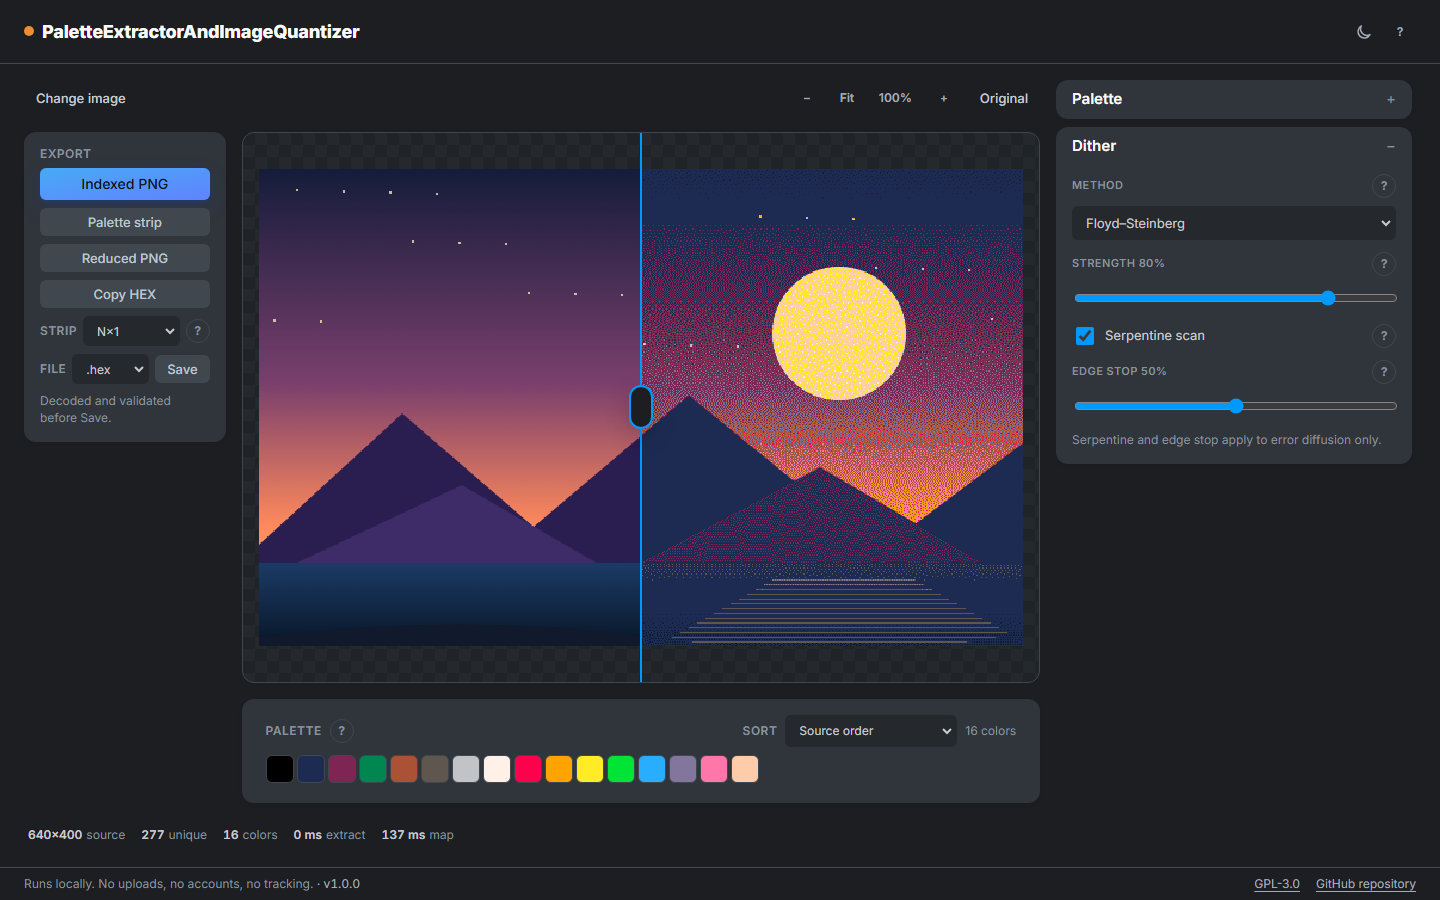
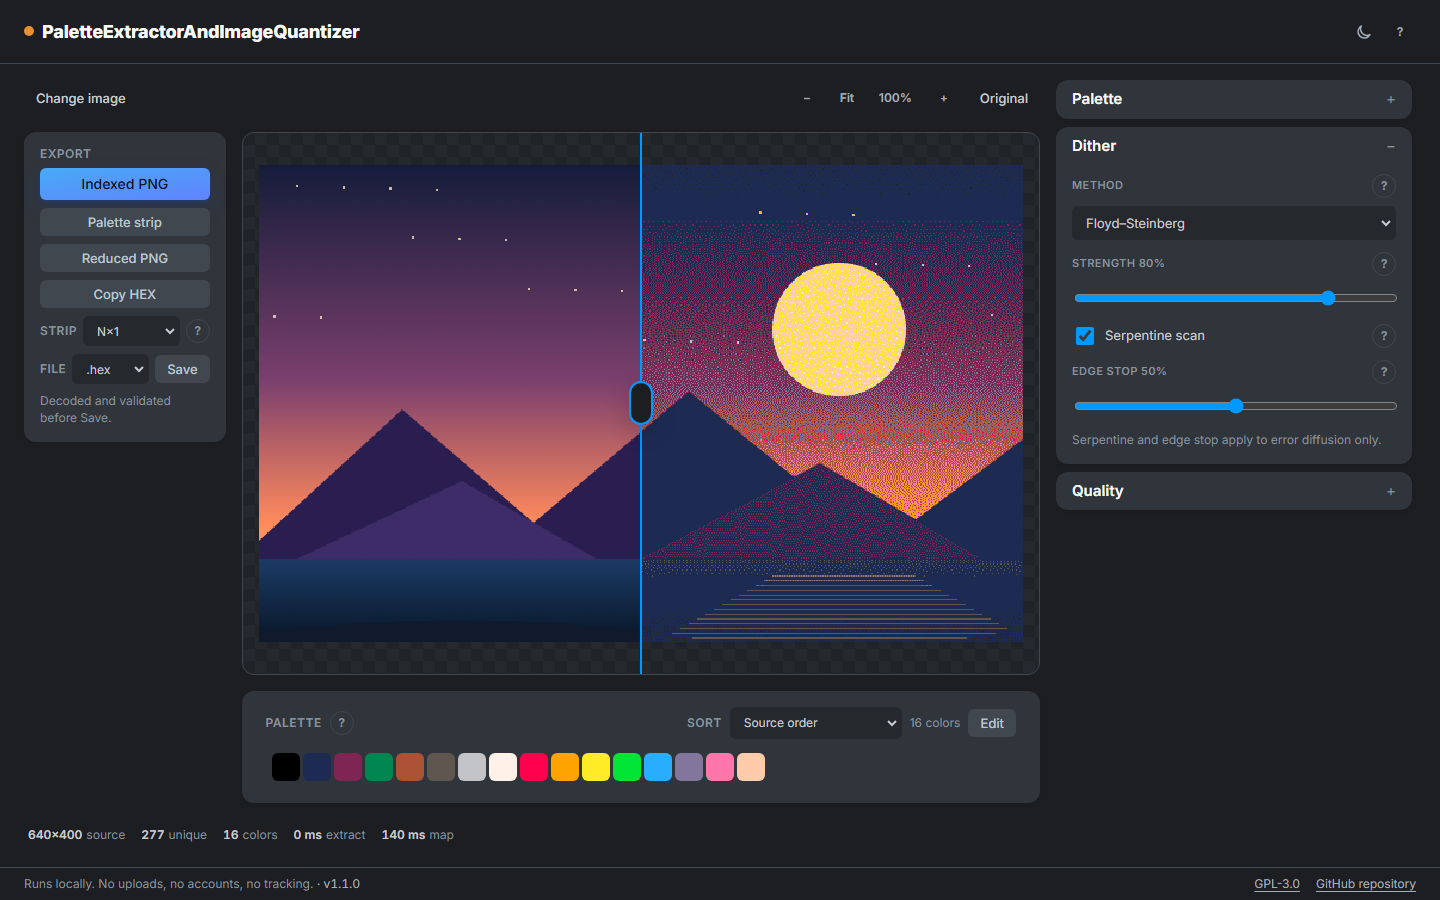
Release 1.1.0
Close M5: palette editor with HEX editing, add/remove, locks, manual order, canvas eyedropper, and undo/redo shortcuts; CIEDE2000 mean/p95/max with an error map and worst-pixel list; and versioned URL state for shareable settings.

Verification: 116 tests pass; QA summary, error map, URL restore, palette editing, locks, export round-trips, themes, keyboard, and 360 px layout were checked in the browser.

Bump package.json and APP_VERSION to 1.1.0. Tag v1.1.0 marks this release commit.

Refs: IMPLEMENTATION_PLAN.md 15, M5; AGENTS.md 12

diff --git a/js/core/version.js b/js/core/version.js
@@ -6,7 +6,7 @@
  */
 
 /** @type {string} */
-export const APP_VERSION = '1.0.0';
+export const APP_VERSION = '1.1.0';
 
 /**
  * Bump this when a decision-affecting rule changes (tie-break, ordering, hashing, or

diff --git a/IMPLEMENTATION_PLAN.md b/IMPLEMENTATION_PLAN.md
@@ -1,7 +1,7 @@
 # PaletteExtractorAndImageQuantizer — Implementation Plan
 
-**Plan version:** 1.0.0
-**Product version at completion:** 1.0.0
+**Plan version:** 1.1.0
+**Product version at completion:** 1.1.0
 **Status:** Approved for implementation
 **Date:** 2026-11-13
 **License:** GPL-3.0-only (owner decision, 2026-11-13)
@@ -38,8 +38,8 @@ agents; it defers to this plan for *what* to build.
 | Core | Color, histogram, five extractors, refinement, exact/LUT mapping, dithering, PNG index/encode/decode, palettes |
 | UI | Stage + compact collapsible rail, left export column, contextual tooltips, themes, extract/map modes, fixed palettes, dithering, indexed PNG, Help with references and credits |
 | Tests | 116 passing (`node --test`), including golden hashes, dithering, palettes, formats, indexed PNG, alpha, metrics, URL state, references |
-| Version | `js/core/version.js`; `v1.0.0` tagged; M4 complete; M5 in progress |
-| Next | M5: v1.1 editing and quality (palette editor + locks, ΔE00 summary/error map, URL state) |
+| Version | `js/core/version.js`; `v1.1.0` tagged; M5 complete |
+| Next | M6: post-1.x backlog (roles, contrast, presets, extra formats, batch/CLI, and the rest) |
 
 > **v1.0.0 scope reset (2026-11-14).** The refreshed landscape in
 > [RESEARCH_REPORT.md §4.5](RESEARCH_REPORT.md#45-landscape-refresh-14-nov-2026) shows
@@ -133,7 +133,7 @@ add it to the 1.0 release without a scope decision and a plan update.
 | F-17 | Two complete themes: dark + light, auto by system + 3-state toggle, persisted | MUST | M4 | No mixed tokens; no FOUC; instant switch; light/dark parity test |
 | F-18 | Help: `?` tooltips, How-it-works, references, credits | MUST | M3–M4 | Every non-obvious control has a tooltip; references open only on click; nothing auto-opens |
 
-**v1.1 (in progress):** minimal palette editor + locks, ΔE00 summary/error
+**v1.1 (complete):** minimal palette editor + locks, ΔE00 summary/error
 map/worst pixels, URL state. **Later/not planned for v1.x:** palette roles, contrast
 matrix, presets, palette swap, manifest/QA JSON, `.pal`/`.css`/`.ase`/DTCG exports, deep
 links, 12+ guide topics, batch/ZIP, CLI/WASM, animation, NES banks, Yliluoma, exact
@@ -1634,7 +1634,7 @@ Each milestone ends with a demo and green tests. Version bumps: `0.1.0` at M0,
 - [x] Annotated tag `v1.0.0`
 - **Exit:** v1.0.0 tagged; Pages deploys from the same commit on push.
 
-### M5 — v1.1: editing and quality (after 1.0.0)
+### M5 — v1.1: editing and quality (complete)
 
 - [x] Minimal palette editor: remove, edit HEX, add, and keep a stable manual order.
       No semantic roles in this release.
@@ -1761,6 +1761,7 @@ A change is done only when:
 | 2026-11-14 | Palette editor keeps a 50-step undo/redo history | Covers colors, order, locks, selection, sort, and transparent index; Ctrl/Cmd+Z stays native inside text fields |
 | 2026-11-14 | QA measures the preview per pixel with CIEDE2000; p95 uses 0.1 buckets, worst list is top 20, error map clamps at 20 ΔE00 | Keeps measurement responsive and aligned with the preview; contrast and full QA reports stay out of v1.1 |
 | 2026-11-14 | URL state stores normalized v1 settings in the hash; defaults omitted; imported palettes, edits, and QA results excluded | Shareable and reproducible without image data or a backend |
+| 2026-11-14 | Release 1.1.0: M5 complete | Palette editor, locks, manual order, eyedropper, quality report, and URL state tested; 116 tests |
 
 ---
 

diff --git a/AGENTS.md b/AGENTS.md
@@ -262,9 +262,9 @@ and the change is committed locally with a descriptive body (plan §16).
 
 ## 12. Current state and next task
 
-- Plan: ✅ `1.0.0`; `DESIGN.md` ✅ (dark + light themes, auto + 3-state toggle);
-  M0 ✅ `v0.1.0`; M1 ✅ `v0.2.2`; M2 ✅ `v0.3.0`; M3 ✅ `v0.4.0`; M4 ✅ `v1.0.0`
-  (116 tests).
+- Plan: ✅ `1.1.0`; `DESIGN.md` ✅ (dark + light themes, auto + 3-state toggle);
+  M0 ✅ `v0.1.0`; M1 ✅ `v0.2.2`; M2 ✅ `v0.3.0`; M3 ✅ `v0.4.0`; M4 ✅ `v1.0.0`;
+  M5 ✅ `v1.1.0` (116 tests).
 - Working: five extractors (Wu default), fixed palettes + import, exact/LUT mapping,
   ED/Bayer/blue-noise dithering, indexed PNG with `tRNS`, strip/reduced and
   `.hex`/`.gpl`/`.json` exports, palette editor with HEX editing, canvas picking,
@@ -272,7 +272,7 @@ and the change is committed locally with a descriptive body (plan §16).
   versioned URL settings, themes, fixed desktop frame with a scrollable rail, left export
   column, contextual tooltips, Help drawer with references and credits, LAN dev-server
   URLs.
-- Next: M5 — release `1.1.0`: version bump, browser pass, tag `v1.1.0`.
+- Next: post-1.x backlog; no committed milestone.
 - Do not assume UI files are missing: `index.html`, `css/`, `js/ui/`, and the worker exist.
 - The public name is fixed to the repository name; the short mark is `PEIQ`.
 
